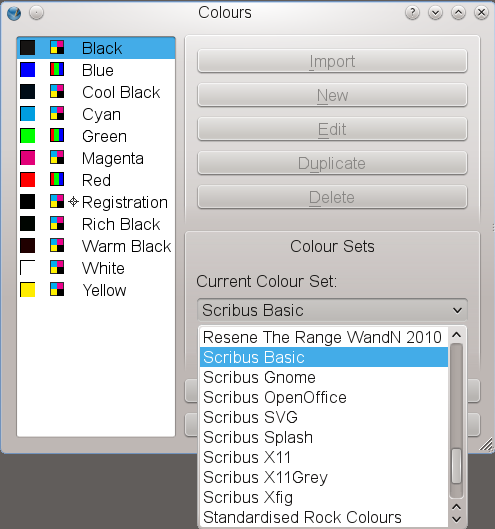
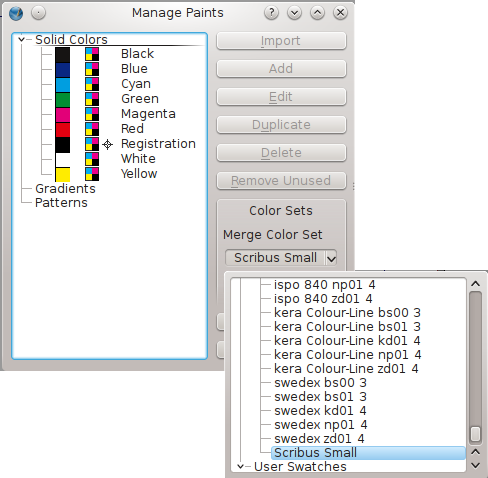
color docs with 1.5.0 mods
git-svn-id: https://scribus.net/svn/Scribus/trunk@17630 11d20701-8431-0410-a711-e3c959e3b870

diff --git a/Scribus/doc/en/colorwheel.html b/Scribus/doc/en/colorwheel.html
@@ -6,9 +6,11 @@
 <body>
 
 <h2>The Color Wheel</h2>
-<p>Originally created as a tool to visualize the <i>physical spectrum</i> of <i>all</i> colors by scientists like Isaac Newton, a color wheel (or circle) nowadays is a tool used by artists and designers to select matching colors based on <i>color perception</i>. Like the <a href="color1.html">RGB and CMY(K) color models</a>, a color wheel is making use of the concept of <a href="http://en.wikipedia.org/wiki/Primary_color">primary colors</a>, in this case red, yellow and blue, hence the abbreviation RYB. While other color wheels, based on the RGB or CMY(K) models, are available, the Scribus Color Wheel follows the traditional &ldquo;artistic&rdquo; or &ldquo;perceptional&rdquo; approach, since this is the way to (almost always) guarantee visually pleasing results in design by using mathematical formulas based on Goethe&rsquo;s and his successors&rsquo; observations and research.</p><br>
-<table width="100%"><tr><td align="center"><img src="images/RYB_color_wheel.png" title="The RYB color wheel" alt="The RYB color wheel"/></td></tr>
-<tr><td align="center"><i>The RYB color wheel</i></td></tr>
+<table width="90%" cellpadding="5">
+<tr><td><img src="images/RYB_color_wheel.png" title="The RYB color wheel" alt="The RYB color wheel"/>
+<p><i>The RYB color wheel</i></td>
+<td><p>Originally created as a tool to visualize the <i>physical spectrum</i> of <i>all</i> colors by scientists like Isaac Newton, a color wheel (or circle) nowadays is a tool used by artists and designers to select colors based on <i>color perception</i>. Like the <a href="color1.html">RGB and CMY(K) color models</a>, a color wheel is making use of the concept of <a href="http://en.wikipedia.org/wiki/Primary_color">primary colors</a>, in this case red, yellow and blue, hence the abbreviation RYB. While other color wheels, based on the RGB or CMY(K) models, are available, the Scribus Color Wheel follows the traditional &ldquo;artistic&rdquo; or &ldquo;perceptional&rdquo; approach, since this is the way to (almost always) guarantee visually pleasing results in design by using mathematical formulas based on Goethe&rsquo;s and his successors&rsquo; observations and research.</p>
+</tr>
 </table>
 <h3>The Color Wheel Dialog</h3>
 <p>The Color Wheel dialog (available via <i>Extras&nbsp;&gt; Color Wheel</i>) may look simple at first glance, but it&rsquo;s actually quite versatile. Note that it&rsquo;s only available with an open document, as the color harmonies you create in this dialog will be added to a document&rsquo;s colors.</p><br>
@@ -17,6 +19,8 @@
 <h4>General</h4>
 <p>In the upper left part of the dialog you can see the color wheel itself. Depending on the selected color scheme, you will see one or more tiny circles placed at the border of the wheel. These are the color indicators, and you can move them with the mouse to modify the color scheme. At the center of the wheel you can always see one color. This is the <i>base color</i>, i.e., the color that determines the other colors in the scheme. You can change this color either by clicking somewhere in the wheel or by choosing another base color in the section right to wheel.</p>
 <p>Underneath the wheel you can select the color scheme, which will be described below. Since the color schemes are based on geometrical ideas, you can also change the <i>angle</i> or the &ldquo;distance&rdquo; between colors in some (but not all) of them.</p>
+<h4>The Preview</h4>
+<p>The Preview section of the dialog provides a preview of the selected color scheme, as well as sample text in 100% RGB black and RGB white to show how text will look in front of areas that use these colors. One important feature of the preview is the emulation of color blindness (<i>Vision Defect Type</i>). When using color harmonies one should always keep in mind that some color combinations that work well for the majority of people may not work at all for people who are suffering from certain vision defects. For instance, two contrasting colors may look like a single color, or text that can be easily read if placed in front of a colored area may completely disappear for people with certain vision defects.</p>
 
 <h4>Color Models</h4>
 <p>The Color Wheel dialog provides three kinds of color models, as well as a variable color selection, to select the <i>base color</i>. CMYK, RGB and HSV have been described <a href="color1.html">elsewhere</a>. In addition, you can select colors from all document colors, i.e., the currently selected color palette, as well as all imported and newly created colors.</p>
@@ -25,25 +29,34 @@
 
 <p><b>Monochromatic:</b></p>
 <p>The monochromatic color scheme (as displayed above) is actually a combination of a base color and one dark and light variancy of the color. You cannot change the &ldquo;angle,&rdquo; as there is no geometrical relation between the colors.</p>
-<p><b>Analogous:</b></p><br>
-<table width="100%"><tr><td align="center"><img src="images/cw-analogous.png" title="The Color Wheel dialog" alt="The Color Wheel dialog"/></td></tr></table>
-<p>The goal of the analogous color scheme is to create color harmonies by using &ldquo;neighbouring&rdquo; colors in the color wheel. The value of such a scheme (especially in offset printing) will depend on a sufficient amount of contrast between the colors, hence the recommendation to keep the &ldquo;angle&rdquo; value large enough.</p>
-<p><b>Complementary:</b></p>
-<table width="100%"><tr><td align="center"><img src="images/cw-compl.png" title="The Color Wheel dialog" alt="The Color Wheel dialog"/></td></tr></table>
-<p>Complentary colors are colors opposite to each other on the Color Wheel, hence the grayed out <i>Angle</i> field. Their best use is for creating strong contrasts between larger areas, but they should be avoided as text and text background colors, because text will then become almost unreadable.</p>
-<p><b>Split Complementary:</b></p>
-<table width="100%"><tr><td align="center"><img src="images/cw-splitcompl.png" title="The Color Wheel dialog" alt="The Color Wheel dialog"/></td></tr></table>
-<p>In contrast to the Complementary color scheme, Split Complementary uses one base color and two neighbouring colors of the base color&rsquo;s complementary color. The &ldquo;distance&rdquo; between the split complementary colors and the complementary color has to be equal for both, but the distance itself can vary, which is why you can change the &ldquo;angle.&rdquo;</p>
-<p><b>Triadic:</b></p>
-<table width="100%"><tr><td align="center"><img src="images/cw-triadic.png" title="The Color Wheel dialog" alt="The Color Wheel dialog"/></td></tr></table>
-<p>In a Triadic color scheme, three colors are distributed as an equiliteral triangle on the color wheel. Thus, you can&rsquo;t change the &ldquo;angle.&rdquo;</p>
-<p><b>Tetradic (Double Complementary)</b></p>
-<table width="100%"><tr><td align="center"><img src="images/cw-tetradic.png" title="The Color Wheel dialog" alt="The Color Wheel dialog"/></td></tr></table>
-<p>The Tetradic color scheme comprises two pairs of complementary colors (hence the alternative term Double Complementary). If both pairs are set to an angle of 90° (the default setting), they are equally distributed around the wheel. This special case is also called Square color scheme. Since there is no need to restrict oneself to a Square scheme, the &ldquo;angles&rdquo; can be changed.</p>
 
-
-<h4>The Preview</h4>
-<p>The Preview section of the dialog provides a preview of the selected color scheme, as well as sample text in 100% RGB black and RGB white to show how text will look in front of areas that use these colors. One important feature of the preview is the emulation of color blindness. When using color harmonies one should always keep in mind that some color combinations that work well for the majority of people may not work at all for people who are suffering from certain vision defects. For instance, two contrasting colors may look like a single color, or text that can be easily read if placed in front of a colored area may completely disappear for people with certain vision defects.</p>
+<table width="80%" cellpadding="5">
+<tr><td><p><b>Analogous:</b></p></td></tr>
+<tr><td align="center"><img src="images/cw-analogous_20.png" title="The Color Wheel dialog" alt="The Color Wheel dialog"/><br />Angle = 20
+<p><img src="images/cw-analogous_30.png" title="The Color Wheel dialog" alt="The Color Wheel dialog"/><br />Angle = 30</td>
+<td align="left" rowspan="2"><p>The analogous color scheme creates color harmonies by using neighboring colors in the color wheel. These colors should be pleasing together when the angle is small, and offer increasing contrast as you increase the angle.</p>
+<p>In these images, our base color is the farthest to the right.</p></td>
+</tr>
+<tr><td><p><b>Complementary:</b></p></td</tr>
+<tr><td align="center"><img src="images/cw-complementary.png" title="The Color Wheel dialog" alt="The Color Wheel dialog"/><br />Base color to the left</td>
+<td align="left"><p>Complementary colors are colors opposite to each other on the Color Wheel, so here we have a fixed angle of 180°. Their best use is for creating strong contrasts between larger areas, but they should not be used together as text and text background colors.</p></td>
+</tr>
+<tr><td><p><b>Split Complementary:</b></p></td></tr>
+<tr><td align="center"><img src="images/cw-splitcompl_20.png" title="The Color Wheel dialog" alt="The Color Wheel dialog"/><br />Angle = 20
+<p><img src="images/cw-splitcompl_40.png" title="The Color Wheel dialog" alt="The Color Wheel dialog"/><br />Angle = 40</td>
+<td align="left">The base color is farthest to the right.<br />This is in essence a combination of Analogous and Complementary. The first two colors (left to right) are analogous to the base color, separated by our chosen angle. The next two colors are complementary to each of these analogous colors.</td>
+</tr>
+<tr><td><p><b>Triadic:</b></p></td></tr>
+<tr><td align="center"><img src="images/cw-triadic.png" title="The Color Wheel dialog" alt="The Color Wheel dialog"/><br />Base color to the right</td>
+<td align="left">Another simple fixed scheme, with the three colors 120° apart.</td>
+</tr>
+<tr><td><p><b>Tetradic (Double Complementary)</b></p></td></tr>
+<tr><td align="center"><img src="images/cw-tetradic_20.png" title="The Color Wheel dialog" alt="The Color Wheel dialog"/><br />Angle = 20
+<p><img src="images/cw-tetradic_40.png" title="The Color Wheel dialog" alt="The Color Wheel dialog"/><br />Angle = 40</td>
+<td align="left">The base color is farthest to the right.<br />Here we have a single analogous color (second from the left), separated by our chosen angle, then corresponding complementary colors (first and third colors). Note that one complementary color pair is the first and fourth, and the other pair is the second and third.</td>
+</tr></table>
+<h4>Making Use of These Schemes</h4>
+<p>With so many schemes and variations in settings, obviously there is no automatic answer to choosing which is best for you. One way to learn is to look at advertisements, web pages, or other examples of pleasing design, and pay attention to their color schemes, noting which seem to work well, and which do not. There are good uses for similar colors and for contrasting colors, and most designs have each in various areas of the page.</p>
 <h4>Adding Color Harmonies to the Document Colors</h4>
 <p>In the lower right section of the Color Wheel dialog, you can see the &ldquo;Result Colors&rdquo; in all three color models. Unfortunately, the names of the colors in the new scheme will be created automatically, and there&rsquo;s no way to rename them in the Color Wheel dialog. Thus, you will have to <a href="color1.html">rename</a> these colors via <i>Edit&nbsp;&gt; Colors</i> if you either want to use several color harmonies in your document or make sure that the colors of your scheme are listed next to each other in color dialogs.</p>
 <p>At the bottom of the dialog you can see two options for adding your color scheme to the document colors: &ldquo;Merge&rdquo; and &ldquo;Replace.&rdquo;</p>
@@ -51,7 +64,7 @@
 <table width="100%"><tr><td align="center"><img src="images/cw-warning.png" title="The Color Wheel dialog" alt="The Color Wheel dialog"/></td></tr></table>
 <p>As described, the <i>Colors</i> dialog will be launched, where you can rename the existing scheme colors. You can then return to the Color Wheel and merge the new color harmony.</p>
 <p><b>Replace</b>, not surprisingly, will replace colors from a previously created scheme with identical names in the <i>Color</i> dialog.</p>
-<h3>Limitations</h3>
+<h4>Limitations</h4>
 <p>There are several limitations to both the RYB color model and its implementation in Scribus:</p>
 <ul>
 <li>The RYB color model is <b>incomplete</b>. It ignores neutral colors like black, white or grays, and it doesn&rsquo;t work reliably with CMYK and spot colors. Some color vendors, like Pantone or RAL, offer specialized software that allows for creating color harmonies with their spot color systems. <a href="color6.html">dtp studio&rsquo;s</a> &ldquo;Digital Colour Atlas&rdquo; even permits the creation of color harmonies between different color systems.</li>

diff --git a/Scribus/doc/en/color1.html b/Scribus/doc/en/color1.html
@@ -1,17 +1,11 @@
 <html>
 <head>
 	<meta http-equiv="Content-Type" content="text/html; charset=UTF-8"/>
-	<title>Editing and Managing Solid Colors</title>
+	<title>Color Palettes</title>
 </head>
 <body>
-<h3>Editing and Managing Solid Colors (1)</h3>
-<table border="1" align="center">
-  <tbody>
-    <tr>
-      <td><i><b>Please note that this chapter is not about color management, but about the editing and managing of color <a href="WwFill.html">fills</a>. Color management is described in a <a href="cms.html">separate chapter</a>.</b></i></td>
-    </tr>
-  </tbody>
-</table>
+<h3>Color Palettes</h3>
+<h5>Please note that this chapter is not about color management, but about the editing and managing of color <a href="WwFill.html">fills</a>. Color management is described in a <a href="cms.html">separate chapter</a>.</b></i></h5>
 <p>Within Scribus there are several methods to create, import and edit solid colors and color sets. Moreover, Scribus has a well developed tool, the <a href="colorwheel.html">Color Wheel plug-in</a>, which helps with creating color harmonies and even testing them for people with color blindness.</p>
 <h3>Why Color Sets?</h3>
 <p>The answer to the question in the headline is closely related to the answer to a more basic question, namely: &ldquo;What is a color?&rdquo; The truth is, there is no simple answer to that question, as a &ldquo;color&rdquo; can be described in hundreds of ways, for example as a combination of wavelengths, a combination of color values within a certain &ldquo;color model&rdquo;, as a category in a framework based on aesthetical rules etc. As a result, many different so-called &ldquo;color models&rdquo; have been developed over the course of time, many of which have become part of a discipline called &ldquo;color science,&rdquo; a science that is itself a &ldquo;meta-science,&rdquo; as it requires input from many different disciplines, including physics, neuro-science, biology, mathematics, engineering, and even art, artisanry or literature. &ldquo;Color&rdquo; is actually one of a few cases, in which artists like Johann Wolfgang von Goethe or Albert Henry Munsell contributed significantly to scientific progress.</p>
@@ -23,15 +17,7 @@
 <p>As a practical matter, the colors available in a color palette or colors you create yourself (and thus add to an existing palette) are the only ones that can be used as text, fill, line or gradient colors.</p>
 
 <h4>Colors in Scribus Color Palettes</h4>
-<p>Scribus is being shipped with a huge collection of more than 150 useful color sets, also called “palettes” or (somehow misleading) “swatches.” These palettes serve different purposes, all of which will be described in <a href="color3.html">separate documents</a>. There are palettes of different sizes available, ranging from &ldquo;Scribus Basic&rdquo;, a collection of primary RGB and CMYK colors to, for instance, &ldquo;X11,&rdquo; which includes a huge number of (RGB) Colors.</p><br>
-<table border="1" align="center">
-  <tbody>
-    <tr>
-      <td><i><b>Please note that &ldquo;Scribus X11&rdquo; used to be the default palette in earlier versions of Scribus, whereas the default set has been changed to &ldquo;Scribus Basic&rdquo; since 1.3.6.</i></b>.</td>
-</tr>
-  </tbody>
-</table>
-<br>
+<p>Scribus is being shipped with a huge collection of more than 150 useful color sets, also called “palettes” or (somehow misleading) “swatches.” These palettes serve different purposes, all of which will be described in <a href="color3.html">separate documents</a>. There are palettes of different sizes available, ranging from &ldquo;Scribus Basic&rdquo;, a collection of primary RGB and CMYK colors to, for instance, &ldquo;X11,&rdquo; which includes a huge number of (RGB) Colors.</p>
 <p>Color palettes in Scribus can contain four different types of colors, each of which uses a different visual indicator in Scribus color dialogs:</p>
 
 <table border="0">
@@ -68,20 +54,6 @@
     </tr>
   </tbody>
 </table>
-<br>
-<h4>Editing Colors and Color Palettes</h4>
-<p>When you create and save a new document, all the colors that are availabe in the dialog <i>Edit > Colors</i> will be stored in that document. This is an important detail, because any changes to a color palette will only affect the current document. The selection or creation of a new default palette will be described in the <a href="color2.html">next section</a>.</p>
-<p>If you choose <i>Edit > Colors</i> from the menu bar for the first time and with a new document open, Scribus will bring up the following dialog:</p><br>
 
-<table width="100%"><tr><td align="center"><img src="images/editcols1.png"/></td></tr></table><br>
-<p>To the left you see the list of colors in the selected default color set, which is the palette &ldquo;Scribus Basic&rdquo;. The list view contains a preview of every color, a color model indicator, indicators for special colors (spot, registration), and finally the name of the color. If color management is active, you may also see a warning sign between the color preview and the color model icon, indicating that a color is out of gamut.</p>
-<p>To the right you see various editing options for your color palette, starting with the &ldquo;Import&rdquo; button at the top. Clicking on it brings up a file dialog, where you can select various sources for colors. These sources can either be existing Scribus files or color palettes in one of the following formats: <b>Encapsulated PostScript (EPS)</b>, <b>PostScript (PS)</b>, <b>Adobe Illustrator (AI)</b>, <b>OpenDocument Color Palettes (SOC)</b> or <b>GIMP Color Palettes (GPL)</b>. Note that importing a color palette does <i><b>not</b></i> replace the existing colors. Instead, the colors will be <i><b>added</b></i> to the existing palette:</p>
-<table width="100%"><tr><td align="center"><img src="images/editcols1a.png"/></td></tr></table><br>
-<p>You can also create a new color yourself and add it to the existing palette by clicking on the &ldquo;New&rdquo; button. This will bring up the color editor:</p>
-<table width="100%"><tr><td align="center"><img src="images/editcols2.png"/></td></tr></table><br>
-<p>Here you can insert a name for the new color and select a color model (CMYK, RGB and web-safe RGB, the latter being almost irrelevant today, even if you are creating a PDF for the world-wide web). In the lower right section you see three or four (depending on the selected color model) color sliders to modify the color values. Of course you can also insert numerical color values directly. At the top of the dialog you see a so-called &ldquo;HSV Color Map,&rdquo; which allows for creating a color by clicking somewhere on the colored field. &ldquo;HSV&rdquo; is an abbreviation for &ldquo;Hue, Saturation, Value&rdquo;, which is another way to describe colors in the RGB color model. If you click on the drop-down list, you will see that you can also select a color from one of the installed color palettes.</p>
-<p>To use the &ldquo;Edit&rdquo; and &ldquo;Duplicate&rdquo; options you have to select a color from the list. The dialog that will appear is identical to the one for new colors.</p>
-<p>Deleting a color from the list can be risky, since the color may have already been applied to an item or text in a document. Thus, Scribus will always ask for a replacement color, a mechanism that&rsquo;s similar to <i>Edit > Replace Colors</i>, which is described in the section on <a href="importhints2.html">importing vector drawings</a>:</p><br>
-<table width="100%"><tr><td align="center"><img src="images/editcols3.png"/></td></tr></table><br>
-<p>The final editing option is called &ldquo;Remove Unused,&rdquo; which is also described in the vector import section.</p>
-<p>If you click &ldquo;OK&rdquo;, the changes to the color list will be saved in your Scribus document, while clicking &ldquo;Cancel&rdquo; will leave the list untouched.</p>
+</body>
+</html>

diff --git a/Scribus/doc/en/add_colors.html b/Scribus/doc/en/add_colors.html
@@ -1,0 +1,69 @@
+<html>
+<head>
+	<meta http-equiv="Content-Type" content="text/html; charset=UTF-8"/>
+	<title>Adding and Editing Colors</title>
+</head>
+<body>
+<h2>Adding and Editing Colors</h2>
+If you are looking for instructions on how to change an entire color palette, <a href="color2.html">then go here</a>.
+<h3>Manual Methods</h3>
+<h4>Making a New Color</h4>
+<p>Here is the new dialog we now get with <i>Edit > Colors</i>, now renamed <i>Manage Paints</i> for 1.5+ versions of Scribus. You may notice that the default palette is now <i>Scribus Small</i>, similar to <i>Scribus Basic</i>, but with fewer blacks, and no RGB colors. A more obvious change is that now we can edit Patterns and Gradients here, though this screenshot shows neither are present in the default state.</p>
+<p>A less obvious change is that there is only one functional mode for <i>Edit > Colors</i>, in other words, you get the same dialog whether or not a document is open. What this means is that you can now manage color sets even while a document is open. Here we see what is usable when the dialog first appears, and a sensible question would be, "How do I add a color when the <i>Add</i> button is greyed out?". The answer: click <i>Solid Colors</i> to highlight it, and THEN we can see that the <i>Import</i>, <i>Add</i>, and <i>Remove Unused</i> buttons are now active. We can't <i>Edit</i> or <i>Duplicate</i> because we haven't selected a particular color. But wait! We can <i>Delete</i>? Yes &ndash; we can delete every single color in the palette! So be mindful of this.</p>
+<blockquote>If you do delete all your colors, what happens with this palette is that you are left with Black, Registration Black, and White. Incidentally, this is also the end result when click <i>Remove Unused</i> with an empty document.</blockquote>
+<table width="100%">
+<tr>
+<td>
+<img src="images/add_colors4.png"></td>
+<td><img src="images/add_colors6.png"></td>
+</tr>
+</table>
+Once you click tne <strong>Add</strong> button, and you then see the familiar <i>Edit Color</i> dialog. Give your color a unique name, then use the sliders to adjust the hue and saturation. You can also click somewhere in the rainbow area for a quick approximation of what you're looking to achieve. Click <strong>OK</strong> to add this new color to your palette. Keep in mind that using this method, your palette will only apply to this document &ndash; having said this, below we'll see how to import a palette from a saved file.</p>
+<p>You have 3 <i>Color Models</i> to choose from: <strong>RGB</strong>, <strong>CMYK</strong>, and <strong>Web Safe RGB</strong>. This last choice limits the values to those which will display the same on 8-bit and 16-bit color systems.</p>
+<h4>Borrowing a Color from another Palette</h4>
+<table width="90%" cellpadding="5">
+<tr><td><p>If you click the button in the upper right of the <i>Edit Color</i> dialog, an extremely long list of choices appears, consisting of all the color sets available in Scribus. Now click one of these colors and its name and RGB/CMYK values are your new color. Many of the color sets contain proprietary spot colors.</p></td></tr>
+<tr><td>
+<img src="images/add_colors5.png">
+</p></td>
+</tr></table>
+<h4>From the Color Picker</h4>
+<p>The little eyedropper on the toolbar activates the color picker, after which clicking on some spot on the screen grabs its color. You can expect to be presented with a dialog asking for a name for this color. If you don't name it, the color will not be added, even if you click <strong>OK</strong></p>
+<p><img src="images/add_colors3.png"></p>
+<h4>Duplicate</h4>
+<p>In the <i>Colors</i> dialog above, click a color you wish to modify. This will of course bring up <i>Edit Color</i>, but click <strong>Cancel</strong>, so that you can go back and click <strong>Duplicate</strong>. Now your color name will show as <i>Copy of ...</i> and you can edit in the various ways we have shown and change the name.</p>
+<h4>Getting Rid of Colors</h4>
+<p>You can do this individually, by highlighting a color then clicking <strong>Delete</strong>, or you might consider reducing the number of colors on the list by clicking <strong>Remove Unused</strong>, which deletes any colors you have not actually used in your document.</p>
+<h3>Automatic and Semi-automatic Methods</h3>
+<h4>From another document</h4>
+<p>If you begin with a previously saved document, you will use its color set. If you extrapolate from this fact, then you might choose to open a document, delete its content, and <i>File > Save As</i> under a new name.</p>
+<p>You might even anticipate this, especially if you have a customized color palette, by saving an empty document named something like "colorscheme3.sla" or some other meaningful guide to finding it later.</p>
+You could also consider that when you import a page from another document, its colors will be imported. Lastly, even if you have already begun a new document, you can open <i>Edit > Colors</i>, and choose <strong>Import</strong> from the dialog to import the colors from another document.</p>
+<h4>From Imported Objects</h4>
+<p>Whenever you import an object from the Scrapbook, its colors will be added to the document. Similarly, vector graphics (SVG, EPS, and so on) will also add any colors they may contain.</p>
+
+<table width="90%" cellpadding="5">
+<tr>
+<td><img src="images/add_colors1.png"></td>
+<td><p>&nbsp; </p><p>&nbsp; </p><p>&nbsp; </p><p>In this example, following import of an SVG, we take a look at the Colors dialog (<i>Edit > Colors</i>), so that we can point out some particulars.</p>
+<p>We started out with the Scribus Basic color set, then imported an SVG, which has added these colors which begin with <i>FromSVG</i>. Scribus does not ask you for your Ok to do this &ndash; for one thing, consider the job this would create for a many-colored graphic.</p>
+<p>In case you only want to import the colors from a vector file (EPS and variants, PS), or from suitable palette files [AI (Adobe Illustrator) GPL (Gimp color palettes), SOC (OpenDocument color palettes), or a suitably formatted Scribus XML description], this would also be an option by selecting <strong>Import</strong> in the <i>Colors</i> dialog. 
+</td></tr></table>
+<p>Notice the many blacks we have here, yet each is unique. Our newly added black, <i>FromSVG#000000</i>, is an RGB black, all the others are CMYK blacks. If you hover your mouse cursor over each one, you will see the differences.</p>
+<table cellpadding="5">
+<tr>
+<td></td><td><b>C%</b></td><td><b>M%</b></td><td><b>Y%</b></td><td><b>K%</b></td></tr>
+<tr>
+<td>Black</td><td align="center">0</td><td align="center">0</td><td align="center">0</td><td align="center">100</td></tr>
+<tr>
+<td>Cool Black</td><td align="center">60</td><td align="center">0</td><td align="center">0</td><td align="center">100</td></tr>
+<tr>
+<td>Registration</td><td align="center">100</td><td align="center">100</td><td align="center">100</td><td align="center">100</td></tr>
+<tr>
+<td>Rich Black</td><td align="center">60</td><td align="center">40</td><td align="center">40</td><td align="center">100</td></tr>
+<tr>
+<td>Warm Black</td><td align="center">0</td><td align="center">60</td><td align="center">30</td><td align="center">100</td></tr>
+</table>
+
+</body>
+</html>
